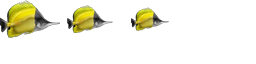
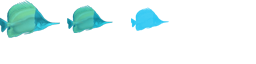
more work on background fish

Changed region(s): [[0.0, 0.0, 0.4375, 0.5938], [0.5, 0.0938, 0.6562, 0.5]]

diff --git a/lib/game/entities/background-fish.js b/lib/game/entities/background-fish.js
@@ -6,24 +6,66 @@ ig
         "impact.entity"
     )
     .defines(function() {
-        var FRAME_SIZE = {x: 60, y: 38};
+        var SIZE_FISH_LARGE = {x: 60, y: 38};
+        var SIZE_FISH_MEDIUM = {x: 46, y: 28};
+        var SIZE_FISH_SMALL = {x: 38, y: 24};
+        var SIZE_FRAME = {x: 60, y: 38};
 
-        EntityBackgroundFish = ig.Entity.extend({
-            bounciness: 1,
-            offset: {x: 8, y: 8},
-            size: {x: FRAME_SIZE.x - 8 * 2, y: FRAME_SIZE.y - 8 * 2},
+        var base = ig.Entity.extend({
+            animSheet: new ig.AnimationSheet("media/background-fish.png", SIZE_FRAME.x, SIZE_FRAME.y),
+            bounciness: 1
 
-            animSheet: new ig.AnimationSheet("media/background-fish.png", FRAME_SIZE.x, FRAME_SIZE.y),
+            ,
+            time: 0,
+            init: function (x, y, settings) {
+                this.a = get_random_int(4, 8);
+                this.b = this.a + get_random_int(0, 1) * 2 - 1;
+                this.d = (get_random_int(0, 1) * 2 - 1 ) * Math.PI / get_random_int(1, 2);
+
+                this.orig = {x: x, y: y};
+                this.parent(x, y, settings);
+            },
+            update: function () {
+                var t = this.time;
+                this.time += 0.001;
+                this.vel.x = Math.round(this.orig.x + 25 * Math.sin(this.a * t + this.d) - this.pos.x);
+                this.vel.y = Math.round(this.orig.y + 25 * Math.sin(this.b * t) - this.pos.y);
+
+                this.parent();
+            }
+        });
+
+        function get_random_int(min, max) {
+            return Math.floor(Math.random() * (max - min + 1)) + min;
+        }
+
+        EntityBackgroundFishLarge = base.extend({
+            offset: {x: (SIZE_FRAME.x - SIZE_FISH_LARGE.x) / 2 + 8, y: (SIZE_FRAME.y - SIZE_FISH_LARGE.y) / 2 + 8},
+            size: {x: SIZE_FISH_LARGE.x - 8 * 2, y: SIZE_FISH_LARGE.y - 8 * 2},
 
             init: function(x, y, settings) {
                 this.parent(x, y, settings);
-                this.addAnim("large", 1, [0]);
-                this.addAnim("medium", 1, [1]);
-                this.addAnim("small", 1, [2]);
+                this.addAnim("", 1, [0]);
             },
+        });
 
-            update: function() {
-                this.parent();
-            }
+        EntityBackgroundFishMedium = base.extend({
+            offset: {x: (SIZE_FRAME.x - SIZE_FISH_MEDIUM.x) / 2 + 8, y: (SIZE_FRAME.y - SIZE_FISH_MEDIUM.y) / 2 + 8},
+            size: {x: SIZE_FISH_MEDIUM.x - 8 * 2, y: SIZE_FISH_MEDIUM.y - 8 * 2},
+
+            init: function(x, y, settings) {
+                this.parent(x, y, settings);
+                this.addAnim("", 1, [1]);
+            },
+        });
+
+        EntityBackgroundFishSmall = base.extend({
+            offset: {x: (SIZE_FRAME.x - SIZE_FISH_SMALL.x) / 2 + 8, y: (SIZE_FRAME.y - SIZE_FISH_SMALL.y) / 2 + 8},
+            size: {x: SIZE_FISH_SMALL.x - 8 * 2, y: SIZE_FISH_SMALL.y - 8 * 2},
+
+            init: function(x, y, settings) {
+                this.parent(x, y, settings);
+                this.addAnim("", 1, [2]);
+            },
         });
     });

diff --git a/lib/game/main.js b/lib/game/main.js
@@ -13,15 +13,26 @@ ig
             corals: new ig.Image("media/corals.png"),
 
             init: function() {
+                var COUNT_FISH_LARGE = 3;
+                var COUNT_FISH_MEDIUM = 4;
+                var COUNT_FISH_SMALL = 2;
+
                 this.collisionMap = new ig.CollisionMap(CollisionMapData.tilesize, CollisionMapData.data);
 
-                var sizes = ["large", "medium", "small"];
-
-                for (var i = 0, count = sizes.length; i < count; i++)
+                for (var i =0; i < COUNT_FISH_SMALL; i++)
                 {
-                    var settings = {vel: {x: 100 - Math.random() * 200, y: 100 - Math.random() * 200}};
-                    var entity = this.spawnEntity(EntityBackgroundFish, ig.system.width / 2, ig.system.height / 2, settings);
-                    entity.currentAnim = entity.anims[sizes[i]];
+                    var settings = {vel: {x: 1, y: 1}};
+                    this.spawnEntity(EntityBackgroundFishSmall, ig.system.width / 2, ig.system.height / 2, settings);
+                }
+                for (var i =0; i < COUNT_FISH_MEDIUM; i++)
+                {
+                    var settings = {vel: {x: 1, y: 1}};
+                    this.spawnEntity(EntityBackgroundFishMedium, ig.system.width / 2, ig.system.height / 2, settings);
+                }
+                for (var i =0; i < COUNT_FISH_LARGE; i++)
+                {
+                    var settings = {vel: {x: 10, y: 10}};
+                    this.spawnEntity(EntityBackgroundFishLarge, ig.system.width / 2, ig.system.height / 2, settings);
                 }
             },
 
